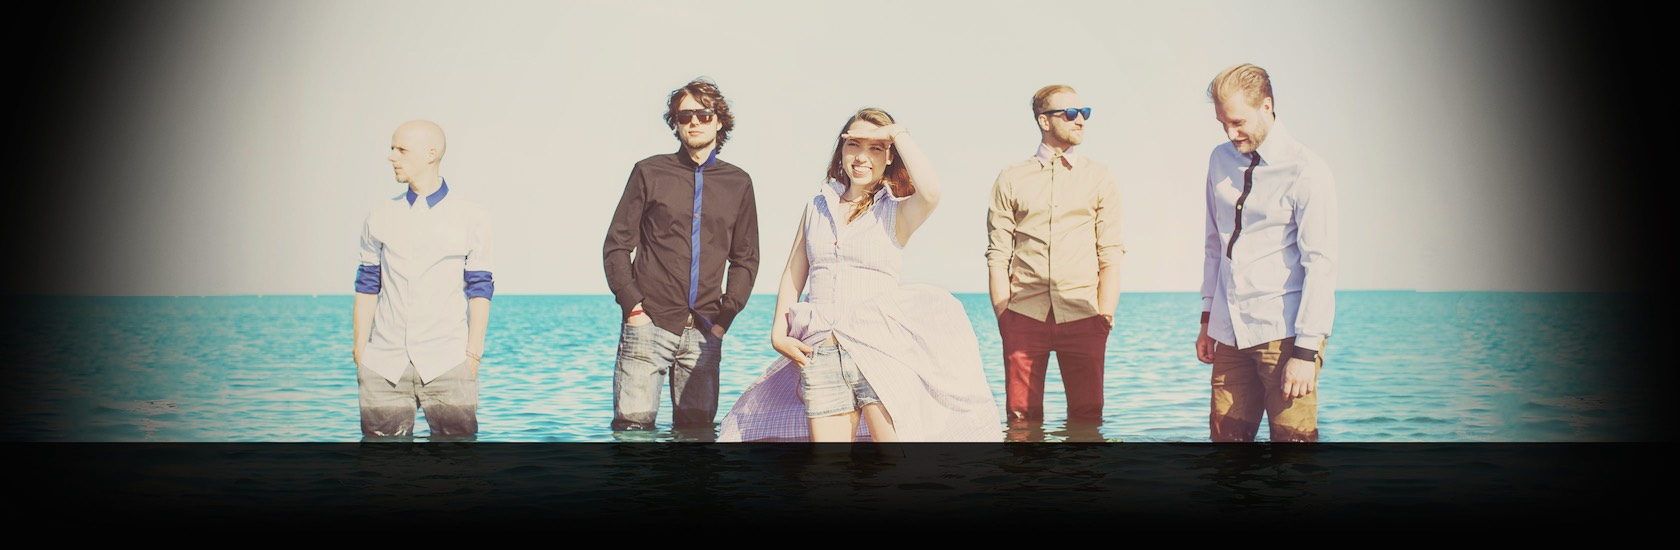
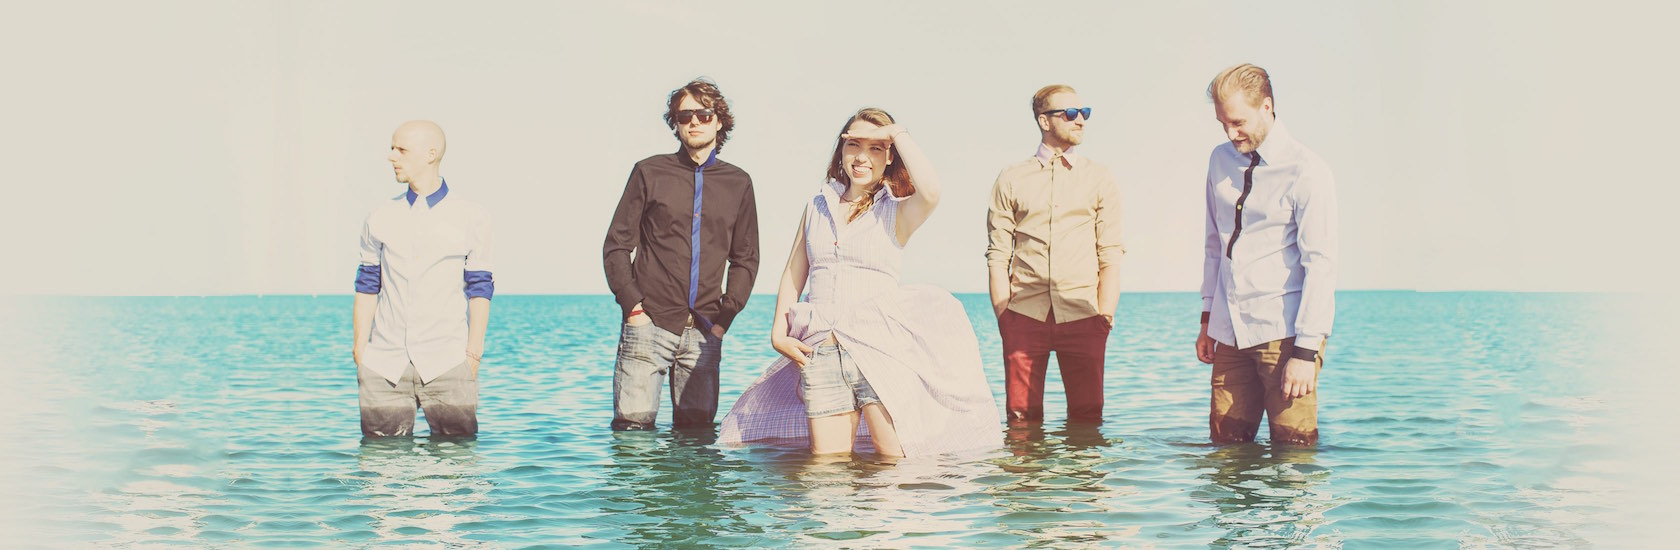
Light theme

diff --git a/template.html b/template.html
@@ -13,21 +13,22 @@
     html, body { margin: 0; padding: 0; }
     a img { border: none; }
     /* main */
-    body { font: 16px/1.5 "Open Sans", "Arial", sans-serif; color: #fff; background: #000 url('http://static.tumblr.com/qtngqf7/TrRnm5bqo/bg.jpg') no-repeat center 35px; min-width: 980px; }
+    body { font: 16px/1.5 "Open Sans", "Arial", sans-serif; color: #333; background: #dddad2 url('http://static.tumblr.com/qtngqf7/c8ynm5eq3/bg.jpg') no-repeat center 0; min-width: 980px; }
     @media (-webkit-min-device-pixel-ratio: 2), (min-resolution: 192dpi) { 
-      body { background-image: url('http://static.tumblr.com/qtngqf7/2pPnm5bro/bg_2x.jpg'); background-size: 1680px 551px; }
+      body { background-image: url('http://static.tumblr.com/qtngqf7/thfnm5esr/bg_2x.jpg'); background-size: 1680px 551px; }
     }
-    a { color: #64c0c0; text-decoration: none; -webkit-transition: all 0.3s ease-in-out; -moz-transition: all 0.3s ease-in-out; transition: all 0.3s ease-in-out; }
-    a:hover { color: #fff; }
+    a { color: #37ada3; text-decoration: none; -webkit-transition: all 0.3s ease-in-out; -moz-transition: all 0.3s ease-in-out; transition: all 0.3s ease-in-out; }
+    a:hover { color: #c74637; }
     a.button { background: #64c0c0; color: #000; font-weight: bold; border-radius: 3px; display: inline-block; padding: 8px 15px; }
-    a.button:hover { background: #AD326A; }
+    a.button:hover { background: #c74637; }
     input[type="submit"] { background: #64c0c0; color: #000; padding: 3px 5px; font-weight: bold; border: none; -webkit-appearance: none; }
     .container { width: 920px; margin: 0 auto; overflow: hidden; }
     .pull-right { float: right; }
     /* #top-bar */
-    #top-bar { background: #000; overflow: hidden; height: 34px; }
+    #top-bar { background: rgba(0,0,0,0.3); overflow: hidden; height: 34px; }
     #locales { float: left; padding-left: 20px; }
-    #locales a { font-size: 14px; display: inline-block; margin: 7px 0; }
+    #locales a { font-size: 14px; display: inline-block; margin: 7px 0; color: #59dcd3; }
+    #locales a:hover { color: #c74637; }
     #locales a.active { color: #fff; }
     #locales .sep { color: #555; }
     #social { float: right; padding-right: 20px }
@@ -36,7 +37,7 @@
     #social a:hover { opacity: 1.0; }
     #tumblr_controls { top: 34px !important; }
     /* #nav-bar */
-    #nav-bar { background: #000; padding: 25px 0; margin-top: 330px; }
+    #nav-bar { background: rgba(0,0,0,0.7); padding: 25px 0; margin-top: 405px; }
     #nav-bar a.title { float: left; font-size: 16px; color: #fff; padding: 8px 20px; }
     ul.nav { float: right; margin: 0; padding: 0; }
     ul.nav li { display: block; float: left; list-style: none; margin: 0; padding: 0; }
@@ -45,27 +46,27 @@
     ul.nav a:hover { color: #fff; }
     /* .nav-bar-fixed */
     body.nav-bar-fixed #nav-bar { position: fixed; top: 0; left: 0; right: 0; margin-top: 0; }
-    body.nav-bar-fixed #content { margin-top: 444px; }
+    body.nav-bar-fixed #content { margin-top: 519px; }
     /* #content */
     h2 { padding: 20px; margin: 0; line-height: 1.2; font-weight: normal; font-size: 24px }
     img { max-width: 100%; }
     /* #content > #posts */
-    #posts { float: right; width: 540px; background: #111; background: rgba(255,255,255,0.12); margin: 30px 0; }
+    #posts { float: right; width: 540px; background: #111; background: rgba(0,0,0,0.04); margin: 30px 0; }
     #posts-header { overflow: hidden; }
     #posts-header h2 { float: left; }
     #posts-header .button { float: right; margin: 16px 20px 0 0; }
-    .post { padding: 20px; border-top: 2px solid #000; }
+    .post { padding: 20px; border-top: 2px solid #dddad2; }
     .post:first-child { border-top: none; }
     .post .title { font-size: 24px; line-height: 1.2; margin: 0; }
     .post .title p { margin: 0; }
     .post .body { margin-top: 20px; }
-    #posts-nav { padding: 20px; border-top: 2px solid #000; }
+    #posts-nav { padding: 20px; border-top: 2px solid #dddad2; }
     #posts-nav .current-page { background: #fff; color: #000; font-weight: bold; border-radius: 3px; display: inline-block; padding: 8px 15px; }
     /* #content > #sidebar */
     #sidebar { float: left; width: 350px; margin: 30px 0; }
     /* #content > #sidebar > #events */
-    #events { background: #111; background: rgba(255,255,255,0.12); margin-bottom: 30px }
-    .event { padding: 20px; line-height: 1.0; border-top: 2px solid #000; overflow: hidden; }
+    #events { background: #111; background: rgba(0,0,0,0.04); margin-bottom: 30px }
+    .event { padding: 20px; line-height: 1.0; border-top: 2px solid #dddad2; overflow: hidden; }
     .event-date { float: left; text-align: center; width: 40px; }
     .event-date-day { display: block; font-size: 24px; }
     .event-date-month { padding-top: 5px; }
@@ -74,10 +75,12 @@
     /* #content > #sidebar > #ad */
     #ad, #ad-store { margin-bottom: 30px }
     /* #footer */
-    #footer { background: #1E2020; padding: 20px 0; }
+    #footer { background: rgba(0,0,0,0.3); padding: 20px 0; }
     #footer .container { background: url('http://static.tumblr.com/qtngqf7/Lcnmk45a8/logo-footer.png') no-repeat 765px 80px; }
     #footer h3 { font-weight: normal; margin: 10px 20px; }
     #footer p { margin: 10px 20px; }
+    #footer a { color: #59dcd3; }
+    #footer a:hover { color: #c74637; }
     #footer-social { overflow: hidden; }
     #footer-social a { display: block; float: left; margin: 7px 14px 7px 0; height: 20px; overflow: hidden; opacity: 0.9; -webkit-transition: all 0.3s ease-in-out; -moz-transition: all 0.3s ease-in-out; transition: all 0.3s ease-in-out; }
     #foorer-social a:hover { opacity: 1.0; }
@@ -143,7 +146,7 @@
   <div id="nav-bar">
     <div class="container">
       <a href="/" class="title">
-        <img src="http://static.tumblr.com/qtngqf7/msQmjtc0r/logo.png" alt="Astro'n'out" />
+        <img src="http://static.tumblr.com/qtngqf7/b00nm5f09/logo.png" alt="Astro'n'out" />
       </a>
       <ul class="nav">
         <li><a href="/"{block:IndexPage} class="active"{/block:IndexPage}>{{news}}</a></li>
@@ -386,7 +389,7 @@
       // Fixed nav on scroll
       window.navBarFixed = false;
       $(window).on('scroll', function() {
-        if ($(window).scrollTop() > 363) {
+        if ($(window).scrollTop() > 438) {
           if (navBarFixed) return;
           window.navBarFixed = true;
           $(document.body).addClass("nav-bar-fixed");

diff --git a/lv.html b/lv.html
@@ -13,21 +13,22 @@
     html, body { margin: 0; padding: 0; }
     a img { border: none; }
     /* main */
-    body { font: 16px/1.5 "Open Sans", "Arial", sans-serif; color: #fff; background: #000 url('http://static.tumblr.com/qtngqf7/TrRnm5bqo/bg.jpg') no-repeat center 35px; min-width: 980px; }
+    body { font: 16px/1.5 "Open Sans", "Arial", sans-serif; color: #333; background: #dddad2 url('http://static.tumblr.com/qtngqf7/c8ynm5eq3/bg.jpg') no-repeat center 0; min-width: 980px; }
     @media (-webkit-min-device-pixel-ratio: 2), (min-resolution: 192dpi) { 
-      body { background-image: url('http://static.tumblr.com/qtngqf7/2pPnm5bro/bg_2x.jpg'); background-size: 1680px 551px; }
+      body { background-image: url('http://static.tumblr.com/qtngqf7/thfnm5esr/bg_2x.jpg'); background-size: 1680px 551px; }
     }
-    a { color: #64c0c0; text-decoration: none; -webkit-transition: all 0.3s ease-in-out; -moz-transition: all 0.3s ease-in-out; transition: all 0.3s ease-in-out; }
-    a:hover { color: #fff; }
+    a { color: #37ada3; text-decoration: none; -webkit-transition: all 0.3s ease-in-out; -moz-transition: all 0.3s ease-in-out; transition: all 0.3s ease-in-out; }
+    a:hover { color: #c74637; }
     a.button { background: #64c0c0; color: #000; font-weight: bold; border-radius: 3px; display: inline-block; padding: 8px 15px; }
-    a.button:hover { background: #AD326A; }
+    a.button:hover { background: #c74637; }
     input[type="submit"] { background: #64c0c0; color: #000; padding: 3px 5px; font-weight: bold; border: none; -webkit-appearance: none; }
     .container { width: 920px; margin: 0 auto; overflow: hidden; }
     .pull-right { float: right; }
     /* #top-bar */
-    #top-bar { background: #000; overflow: hidden; height: 34px; }
+    #top-bar { background: rgba(0,0,0,0.3); overflow: hidden; height: 34px; }
     #locales { float: left; padding-left: 20px; }
-    #locales a { font-size: 14px; display: inline-block; margin: 7px 0; }
+    #locales a { font-size: 14px; display: inline-block; margin: 7px 0; color: #59dcd3; }
+    #locales a:hover { color: #c74637; }
     #locales a.active { color: #fff; }
     #locales .sep { color: #555; }
     #social { float: right; padding-right: 20px }
@@ -36,7 +37,7 @@
     #social a:hover { opacity: 1.0; }
     #tumblr_controls { top: 34px !important; }
     /* #nav-bar */
-    #nav-bar { background: #000; padding: 25px 0; margin-top: 330px; }
+    #nav-bar { background: rgba(0,0,0,0.7); padding: 25px 0; margin-top: 405px; }
     #nav-bar a.title { float: left; font-size: 16px; color: #fff; padding: 8px 20px; }
     ul.nav { float: right; margin: 0; padding: 0; }
     ul.nav li { display: block; float: left; list-style: none; margin: 0; padding: 0; }
@@ -45,27 +46,27 @@
     ul.nav a:hover { color: #fff; }
     /* .nav-bar-fixed */
     body.nav-bar-fixed #nav-bar { position: fixed; top: 0; left: 0; right: 0; margin-top: 0; }
-    body.nav-bar-fixed #content { margin-top: 444px; }
+    body.nav-bar-fixed #content { margin-top: 519px; }
     /* #content */
     h2 { padding: 20px; margin: 0; line-height: 1.2; font-weight: normal; font-size: 24px }
     img { max-width: 100%; }
     /* #content > #posts */
-    #posts { float: right; width: 540px; background: #111; background: rgba(255,255,255,0.12); margin: 30px 0; }
+    #posts { float: right; width: 540px; background: #111; background: rgba(0,0,0,0.04); margin: 30px 0; }
     #posts-header { overflow: hidden; }
     #posts-header h2 { float: left; }
     #posts-header .button { float: right; margin: 16px 20px 0 0; }
-    .post { padding: 20px; border-top: 2px solid #000; }
+    .post { padding: 20px; border-top: 2px solid #dddad2; }
     .post:first-child { border-top: none; }
     .post .title { font-size: 24px; line-height: 1.2; margin: 0; }
     .post .title p { margin: 0; }
     .post .body { margin-top: 20px; }
-    #posts-nav { padding: 20px; border-top: 2px solid #000; }
+    #posts-nav { padding: 20px; border-top: 2px solid #dddad2; }
     #posts-nav .current-page { background: #fff; color: #000; font-weight: bold; border-radius: 3px; display: inline-block; padding: 8px 15px; }
     /* #content > #sidebar */
     #sidebar { float: left; width: 350px; margin: 30px 0; }
     /* #content > #sidebar > #events */
-    #events { background: #111; background: rgba(255,255,255,0.12); margin-bottom: 30px }
-    .event { padding: 20px; line-height: 1.0; border-top: 2px solid #000; overflow: hidden; }
+    #events { background: #111; background: rgba(0,0,0,0.04); margin-bottom: 30px }
+    .event { padding: 20px; line-height: 1.0; border-top: 2px solid #dddad2; overflow: hidden; }
     .event-date { float: left; text-align: center; width: 40px; }
     .event-date-day { display: block; font-size: 24px; }
     .event-date-month { padding-top: 5px; }
@@ -74,10 +75,12 @@
     /* #content > #sidebar > #ad */
     #ad, #ad-store { margin-bottom: 30px }
     /* #footer */
-    #footer { background: #1E2020; padding: 20px 0; }
+    #footer { background: rgba(0,0,0,0.3); padding: 20px 0; }
     #footer .container { background: url('http://static.tumblr.com/qtngqf7/Lcnmk45a8/logo-footer.png') no-repeat 765px 80px; }
     #footer h3 { font-weight: normal; margin: 10px 20px; }
     #footer p { margin: 10px 20px; }
+    #footer a { color: #59dcd3; }
+    #footer a:hover { color: #c74637; }
     #footer-social { overflow: hidden; }
     #footer-social a { display: block; float: left; margin: 7px 14px 7px 0; height: 20px; overflow: hidden; opacity: 0.9; -webkit-transition: all 0.3s ease-in-out; -moz-transition: all 0.3s ease-in-out; transition: all 0.3s ease-in-out; }
     #foorer-social a:hover { opacity: 1.0; }
@@ -139,7 +142,7 @@
   <div id="nav-bar">
     <div class="container">
       <a href="/" class="title">
-        <img src="http://static.tumblr.com/qtngqf7/msQmjtc0r/logo.png" alt="Astro'n'out" />
+        <img src="http://static.tumblr.com/qtngqf7/b00nm5f09/logo.png" alt="Astro'n'out" />
       </a>
       <ul class="nav">
         <li><a href="/"{block:IndexPage} class="active"{/block:IndexPage}>Jaunumi</a></li>
@@ -374,7 +377,7 @@
       // Fixed nav on scroll
       window.navBarFixed = false;
       $(window).on('scroll', function() {
-        if ($(window).scrollTop() > 363) {
+        if ($(window).scrollTop() > 438) {
           if (navBarFixed) return;
           window.navBarFixed = true;
           $(document.body).addClass("nav-bar-fixed");

diff --git a/en.html b/en.html
@@ -13,21 +13,22 @@
     html, body { margin: 0; padding: 0; }
     a img { border: none; }
     /* main */
-    body { font: 16px/1.5 "Open Sans", "Arial", sans-serif; color: #fff; background: #000 url('http://static.tumblr.com/qtngqf7/TrRnm5bqo/bg.jpg') no-repeat center 35px; min-width: 980px; }
+    body { font: 16px/1.5 "Open Sans", "Arial", sans-serif; color: #333; background: #dddad2 url('http://static.tumblr.com/qtngqf7/c8ynm5eq3/bg.jpg') no-repeat center 0; min-width: 980px; }
     @media (-webkit-min-device-pixel-ratio: 2), (min-resolution: 192dpi) { 
-      body { background-image: url('http://static.tumblr.com/qtngqf7/2pPnm5bro/bg_2x.jpg'); background-size: 1680px 551px; }
+      body { background-image: url('http://static.tumblr.com/qtngqf7/thfnm5esr/bg_2x.jpg'); background-size: 1680px 551px; }
     }
-    a { color: #64c0c0; text-decoration: none; -webkit-transition: all 0.3s ease-in-out; -moz-transition: all 0.3s ease-in-out; transition: all 0.3s ease-in-out; }
-    a:hover { color: #fff; }
+    a { color: #37ada3; text-decoration: none; -webkit-transition: all 0.3s ease-in-out; -moz-transition: all 0.3s ease-in-out; transition: all 0.3s ease-in-out; }
+    a:hover { color: #c74637; }
     a.button { background: #64c0c0; color: #000; font-weight: bold; border-radius: 3px; display: inline-block; padding: 8px 15px; }
-    a.button:hover { background: #AD326A; }
+    a.button:hover { background: #c74637; }
     input[type="submit"] { background: #64c0c0; color: #000; padding: 3px 5px; font-weight: bold; border: none; -webkit-appearance: none; }
     .container { width: 920px; margin: 0 auto; overflow: hidden; }
     .pull-right { float: right; }
     /* #top-bar */
-    #top-bar { background: #000; overflow: hidden; height: 34px; }
+    #top-bar { background: rgba(0,0,0,0.3); overflow: hidden; height: 34px; }
     #locales { float: left; padding-left: 20px; }
-    #locales a { font-size: 14px; display: inline-block; margin: 7px 0; }
+    #locales a { font-size: 14px; display: inline-block; margin: 7px 0; color: #59dcd3; }
+    #locales a:hover { color: #c74637; }
     #locales a.active { color: #fff; }
     #locales .sep { color: #555; }
     #social { float: right; padding-right: 20px }
@@ -36,7 +37,7 @@
     #social a:hover { opacity: 1.0; }
     #tumblr_controls { top: 34px !important; }
     /* #nav-bar */
-    #nav-bar { background: #000; padding: 25px 0; margin-top: 330px; }
+    #nav-bar { background: rgba(0,0,0,0.7); padding: 25px 0; margin-top: 405px; }
     #nav-bar a.title { float: left; font-size: 16px; color: #fff; padding: 8px 20px; }
     ul.nav { float: right; margin: 0; padding: 0; }
     ul.nav li { display: block; float: left; list-style: none; margin: 0; padding: 0; }
@@ -45,27 +46,27 @@
     ul.nav a:hover { color: #fff; }
     /* .nav-bar-fixed */
     body.nav-bar-fixed #nav-bar { position: fixed; top: 0; left: 0; right: 0; margin-top: 0; }
-    body.nav-bar-fixed #content { margin-top: 444px; }
+    body.nav-bar-fixed #content { margin-top: 519px; }
     /* #content */
     h2 { padding: 20px; margin: 0; line-height: 1.2; font-weight: normal; font-size: 24px }
     img { max-width: 100%; }
     /* #content > #posts */
-    #posts { float: right; width: 540px; background: #111; background: rgba(255,255,255,0.12); margin: 30px 0; }
+    #posts { float: right; width: 540px; background: #111; background: rgba(0,0,0,0.04); margin: 30px 0; }
     #posts-header { overflow: hidden; }
     #posts-header h2 { float: left; }
     #posts-header .button { float: right; margin: 16px 20px 0 0; }
-    .post { padding: 20px; border-top: 2px solid #000; }
+    .post { padding: 20px; border-top: 2px solid #dddad2; }
     .post:first-child { border-top: none; }
     .post .title { font-size: 24px; line-height: 1.2; margin: 0; }
     .post .title p { margin: 0; }
     .post .body { margin-top: 20px; }
-    #posts-nav { padding: 20px; border-top: 2px solid #000; }
+    #posts-nav { padding: 20px; border-top: 2px solid #dddad2; }
     #posts-nav .current-page { background: #fff; color: #000; font-weight: bold; border-radius: 3px; display: inline-block; padding: 8px 15px; }
     /* #content > #sidebar */
     #sidebar { float: left; width: 350px; margin: 30px 0; }
     /* #content > #sidebar > #events */
-    #events { background: #111; background: rgba(255,255,255,0.12); margin-bottom: 30px }
-    .event { padding: 20px; line-height: 1.0; border-top: 2px solid #000; overflow: hidden; }
+    #events { background: #111; background: rgba(0,0,0,0.04); margin-bottom: 30px }
+    .event { padding: 20px; line-height: 1.0; border-top: 2px solid #dddad2; overflow: hidden; }
     .event-date { float: left; text-align: center; width: 40px; }
     .event-date-day { display: block; font-size: 24px; }
     .event-date-month { padding-top: 5px; }
@@ -74,10 +75,12 @@
     /* #content > #sidebar > #ad */
     #ad, #ad-store { margin-bottom: 30px }
     /* #footer */
-    #footer { background: #1E2020; padding: 20px 0; }
+    #footer { background: rgba(0,0,0,0.3); padding: 20px 0; }
     #footer .container { background: url('http://static.tumblr.com/qtngqf7/Lcnmk45a8/logo-footer.png') no-repeat 765px 80px; }
     #footer h3 { font-weight: normal; margin: 10px 20px; }
     #footer p { margin: 10px 20px; }
+    #footer a { color: #59dcd3; }
+    #footer a:hover { color: #c74637; }
     #footer-social { overflow: hidden; }
     #footer-social a { display: block; float: left; margin: 7px 14px 7px 0; height: 20px; overflow: hidden; opacity: 0.9; -webkit-transition: all 0.3s ease-in-out; -moz-transition: all 0.3s ease-in-out; transition: all 0.3s ease-in-out; }
     #foorer-social a:hover { opacity: 1.0; }
@@ -139,7 +142,7 @@
   <div id="nav-bar">
     <div class="container">
       <a href="/" class="title">
-        <img src="http://static.tumblr.com/qtngqf7/msQmjtc0r/logo.png" alt="Astro'n'out" />
+        <img src="http://static.tumblr.com/qtngqf7/b00nm5f09/logo.png" alt="Astro'n'out" />
       </a>
       <ul class="nav">
         <li><a href="/"{block:IndexPage} class="active"{/block:IndexPage}>News</a></li>
@@ -374,7 +377,7 @@
       // Fixed nav on scroll
       window.navBarFixed = false;
       $(window).on('scroll', function() {
-        if ($(window).scrollTop() > 363) {
+        if ($(window).scrollTop() > 438) {
           if (navBarFixed) return;
           window.navBarFixed = true;
           $(document.body).addClass("nav-bar-fixed");
